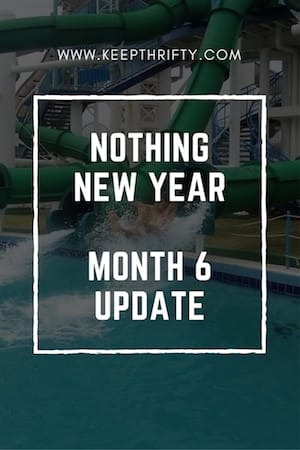
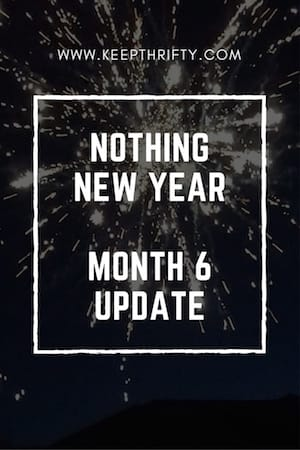
update photos

diff --git a/_posts/2017-07-03-nothing-new-year-month-six-update.md b/_posts/2017-07-03-nothing-new-year-month-six-update.md
@@ -9,7 +9,7 @@ description: "We're halfway through the year and everything's about to change. W
 
 date: 2017-07-03 5:58:00 -0500
 
-image: /img/posts/2017-07-03-nothing-new-year-month-six-update/waterslide.jpg
+image: /img/posts/2017-07-03-nothing-new-year-month-six-update/firework.jpg
 pinterest-image: /img/posts/2017-07-03-nothing-new-year-month-six-update/nny-month-6-update
 
 related-posts: [
@@ -25,7 +25,7 @@ affiliate: true
 
 ---
 
-We're officially halfway through our [year-long challenge to buy nothing new]({% post_url 2017-01-02-happy-nothing-new-year %})! While we've had some hiccups, we're still buying way less new stuff and we're feeling good about our progress. Life is continuing to be crazy - we [moved into our apartment]({% post_url 2017-06-27-minimalist-moving %}) last weekend and are due to close on selling our house __in two days__, which will finally bring us to complete debt freedom.
+We're officially halfway through our [year-long challenge to buy nothing new]({% post_url 2017-01-02-happy-nothing-new-year %})! While we've had some hiccups, we're still buying way less new stuff and we're feeling good about our progress. Our life of craziness continues - over this last weekend, we [downsized into our apartment]({% post_url 2017-06-27-minimalist-moving %}), dropping our living space by a third. On Wednesday, we are due to close on selling our house , which will finally bring us to complete debt freedom.
 
 We've got a lot of changes ahead, including one really big one that I'm excited to announce next week. Stay tuned :)
 
